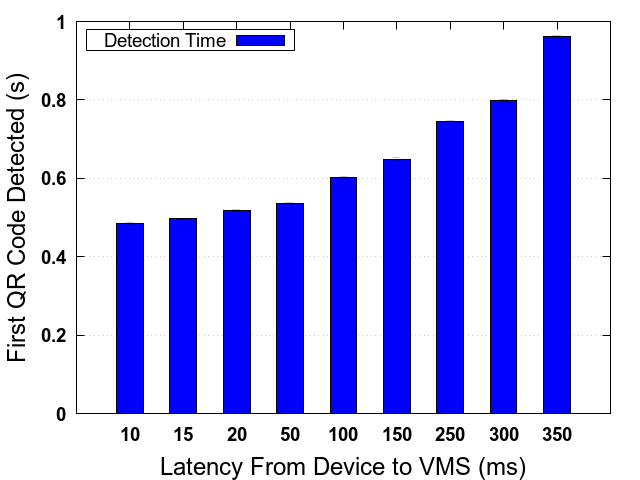
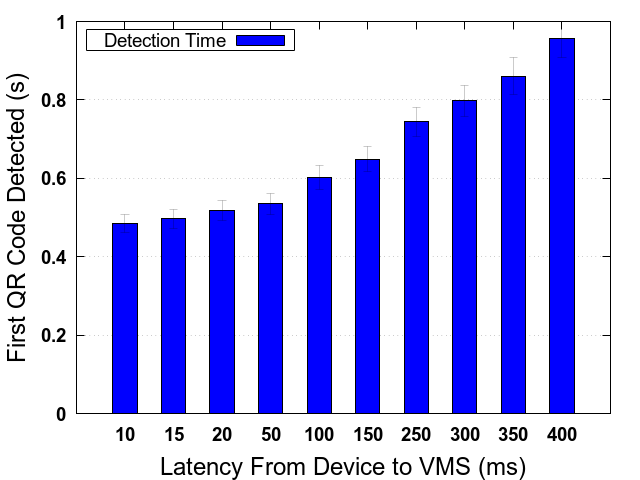
update

Changed region(s): [[0.1562, 0.0625, 0.9062, 0.9375], [0.1875, 0.875, 0.2188, 0.9375]]

diff --git a/latencia/process_logs.py b/latencia/process_logs.py
@@ -127,6 +127,16 @@ t[90]  =   1594585273.3373916 #25
 t[91]  =   1594585321.6198618 #25
 t[92]  =   1594585376.934044 #25
 
+t[93]  =   1594591178.4096148 #35
+t[94]  =   1594591230.7663536 #35
+t[95]  =   1594591286.2548757 #35
+t[96]  =   1594591332.1603966 #35
+
+t[97]   =   1594591470.570778 # 450
+t[98]   =   1594591517.3134146 # 450
+t[99]   =   1594591584.3273926 # 450
+t[100]  =   1594591649.171656 # 450
+
 latencia_array     = {}
 latencia_array[1]  = 0
 latencia_array[2]  = 50
@@ -151,6 +161,8 @@ latencia_array[20] = 250
 latencia_array[21] = 100
 latencia_array[22] = 350
 latencia_array[23] = 25
+latencia_array[24] = 25
+latencia_array[25] = 450
 
 # t[3]  = 1594513865.1358156
 # t[4]  = 1594513975.0294173

diff --git a/latencia/experimento.py b/latencia/experimento.py
@@ -83,7 +83,7 @@ info('*** Creating links\n')
 # net.addLink(s1, s2, cls=TCLink, bw=1, delay='0ms', loss=5)
 # net.addLink(s1, s2, cls=TCLink, bw=1, delay='0ms')
 
-net.addLink(d0, d1, cls=TCLink, bw=100,       delay='25ms')
+net.addLink(d0, d1, cls=TCLink, bw=100,       delay='450ms')
 
 # net.addLink(d1, s1, cls=TCLink, bw=100,       delay='50ms')
 # net.addLink(d2, s1, cls=TCLink, bw=100,       delay='100ms')
